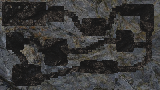
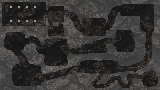
display light as entities

diff --git a/examples/demo/level.rs b/examples/demo/level.rs
@@ -1,34 +1,46 @@
 use doryen_fov::{FovAlgorithm, FovRestrictive, MapData};
-use doryen_rs::{color_blend, color_mul, color_scale, Color, DoryenApi, Image};
+use doryen_rs::{color_blend, Color, DoryenApi, Image};
 
-use crate::light::Light;
+use crate::entity::Entity;
+use crate::light::{Light, LIGHT_COEF};
 
 const START_COLOR: Color = (255, 0, 0, 255);
 const LIGHT_COLOR: Color = (255, 255, 0, 255);
 const LIGHT_RADIUS: f32 = 15.0;
 const PLAYER_LIGHT_RADIUS: f32 = 8.0;
 const PLAYER_LIGHT_COLOR: Color = (150, 150, 150, 255);
-const LIGHT_COEF: f32 = 1.5;
 const WALL_COLOR: Color = (255, 255, 255, 255);
 const GOBLIN_COLOR: Color = (0, 255, 0, 255);
 const VISITED_BLEND_COLOR: Color = (10, 10, 40, 255);
 const VISITED_BLEND_COEF: f32 = 0.8;
 
 pub struct Level {
+    /// a picture containing color coded walls, player start pos and entities. subcell resolution (2x2 pixel for each console cell)
     level_img: Image,
+    /// the level's ground texture. subcell resolution
     ground: Image,
+    /// whether the level_img has been loaded
     loaded: bool,
+    /// computed light in the level. subcell resolution
     lightmap: Image,
+    /// the level size in console cells
     size: (i32, i32),
+    /// the player start position in console cells
     start: (i32, i32),
+    /// where the player can walk (one bool for each console cell)
     walls: Vec<bool>,
+    /// what part of the level have been visited (subcell resolution)
     visited_2x: Vec<bool>,
+    /// utility to compute field of view
     fov: FovRestrictive,
+    /// what part of the level are in the player's field of view (subcell resolution)
     map: MapData,
+    /// the final background image (subcell resolution)
     render_output: Image,
+    /// dynamic lights in the level
     lights: Vec<Light>,
+    /// some dim light following the player to keep him from being in total darkness
     player_light: Light,
-    goblins: Vec<(i32, i32)>,
 }
 
 impl Level {
@@ -46,26 +58,21 @@ impl Level {
             fov: FovRestrictive::new(),
             map: MapData::new(1, 1),
             lights: Vec::new(),
-            goblins: Vec::new(),
             player_light: Light::new((0, 0), PLAYER_LIGHT_RADIUS, PLAYER_LIGHT_COLOR),
         }
     }
-    pub fn try_load(&mut self) -> bool {
-        if !self.loaded {
-            if self.level_img.try_load() {
-                self.compute_walls_2x_and_start_pos();
-                self.compute_walls();
-                self.lightmap = Image::new_empty(self.size.0 as u32 * 2, self.size.1 as u32 * 2);
-                self.render_output =
-                    Image::new_empty(self.size.0 as u32 * 2, self.size.1 as u32 * 2);
-                self.loaded = true;
-                // free memory
-                self.level_img = Image::new_empty(1, 1);
-            } else {
-                return false;
-            }
+    pub fn try_load(&mut self) -> Option<Vec<Entity>> {
+        if !self.loaded && self.level_img.try_load() {
+            let entities = self.compute_walls_2x_and_start_pos();
+            self.compute_walls();
+            self.lightmap = Image::new_empty(self.size.0 as u32 * 2, self.size.1 as u32 * 2);
+            self.render_output = Image::new_empty(self.size.0 as u32 * 2, self.size.1 as u32 * 2);
+            self.loaded = true;
+            // free memory
+            self.level_img = Image::new_empty(1, 1);
+            return Some(entities);
         }
-        true
+        None
     }
     pub fn start_pos(&self) -> (i32, i32) {
         self.start
@@ -81,9 +88,6 @@ impl Level {
             light.update();
         }
     }
-    fn penumbra(color: Color, level: usize) -> bool {
-        (color.0 as usize + color.1 as usize + color.2 as usize) < level
-    }
     pub fn render(&mut self, api: &mut dyn DoryenApi, player_pos: (i32, i32)) {
         if self.ground.try_load() {
             self.compute_lightmap(player_pos);
@@ -94,7 +98,7 @@ impl Level {
                     if self.map.is_in_fov(x, y) {
                         let ground_col = self.ground.pixel(x as u32, y as u32).unwrap();
                         let light_col = self.lightmap.pixel(x as u32, y as u32).unwrap();
-                        let penumbra = Level::penumbra(light_col, 50);
+                        let penumbra = Light::is_penumbra(light_col, 50);
                         let mut r =
                             f32::from(ground_col.0) * f32::from(light_col.0) * LIGHT_COEF / 255.0;
                         let mut g =
@@ -124,18 +128,10 @@ impl Level {
             }
             self.render_output
                 .blit_2x(&mut con, 0, 0, 0, 0, None, None, None);
-            self.render_goblins(api);
         }
     }
-    fn render_goblins(&self, api: &mut dyn DoryenApi) {
-        for goblin in self.goblins.iter() {
-            if self
-                .map
-                .is_in_fov(goblin.0 as usize * 2, goblin.1 as usize * 2)
-            {
-                self.render_creature(api, 'g' as u16, *goblin, GOBLIN_COLOR);
-            }
-        }
+    pub fn is_in_fov(&self, pos: (i32, i32)) -> bool {
+        self.map.is_in_fov(pos.0 as usize * 2, pos.1 as usize * 2)
     }
     pub fn compute_fov(&mut self, (x, y): (i32, i32), radius: usize) {
         self.map.clear_fov();
@@ -144,16 +140,6 @@ impl Level {
     }
     fn add_light(&mut self, pos: (i32, i32)) {
         self.lights.push(Light::new(pos, LIGHT_RADIUS, LIGHT_COLOR));
-    }
-    fn render_creature(&self, api: &mut dyn DoryenApi, c: u16, (x, y): (i32, i32), color: Color) {
-        let light = self.lightmap.pixel(x as u32 * 2, y as u32 * 2).unwrap();
-        let penumbra = Level::penumbra(light, 130);
-        let mut color = color_mul(color, light);
-        if penumbra {
-            color = color_scale(color, LIGHT_COEF);
-        }
-        api.con().ascii(x, y, if penumbra { '?' as u16 } else { c });
-        api.con().fore(x, y, color);
     }
     fn compute_lightmap(&mut self, (px, py): (i32, i32)) {
         // TODO check if filling with black pixels is faster
@@ -166,24 +152,35 @@ impl Level {
             light.render(&mut self.map, &mut fov, &mut self.lightmap, true);
         }
     }
-    fn compute_walls_2x_and_start_pos(&mut self) {
-        let size = self.level_img.try_get_size().unwrap();
-        self.map = MapData::new(size.0 as usize, size.1 as usize);
-        for y in 0..size.1 {
-            for x in 0..size.0 {
+    fn compute_walls_2x_and_start_pos(&mut self) -> Vec<Entity> {
+        let mut entities = Vec::new();
+        let image_size = self.level_img.try_get_size().unwrap();
+        self.size = (image_size.0 as i32 / 2, image_size.1 as i32 / 2);
+        self.walls = vec![false; (self.size.0 * self.size.1) as usize];
+        self.map = MapData::new(image_size.0 as usize, image_size.1 as usize);
+        for y in 0..image_size.1 {
+            for x in 0..image_size.0 {
                 let p = self.level_img.pixel(x, y).unwrap();
                 self.map
                     .set_transparent(x as usize, y as usize, p != WALL_COLOR);
                 self.visited_2x.push(false);
+                let pos_1x = (x as i32 / 2, y as i32 / 2);
                 match p {
-                    START_COLOR => self.start = (x as i32 / 2, y as i32 / 2),
-                    LIGHT_COLOR => self.add_light((x as i32, y as i32)),
-                    GOBLIN_COLOR => self.goblins.push((x as i32 / 2, y as i32 / 2)),
+                    START_COLOR => self.start = pos_1x,
+                    LIGHT_COLOR => {
+                        self.add_light((x as i32, y as i32));
+                        entities.push(Entity::new_light(pos_1x));
+                    }
+                    GOBLIN_COLOR => {
+                        let off = self.offset(pos_1x);
+                        self.walls[off] = true;
+                        entities.push(Entity::new_goblin(pos_1x));
+                    }
                     _ => (),
                 }
             }
         }
-        self.size = (size.0 as i32 / 2, size.1 as i32 / 2);
+        entities
     }
     fn compute_walls(&mut self) {
         for y in 0..self.size.1 {
@@ -203,12 +200,11 @@ impl Level {
                 if self.map.is_transparent(x2 + 1, y2 + 1) {
                     count += 1;
                 }
-                self.walls.push(count < 2);
+                if count < 2 {
+                    let off = self.offset((x, y));
+                    self.walls[off] = true;
+                }
             }
-        }
-        for goblin in self.goblins.iter() {
-            let off = self.offset(*goblin);
-            self.walls[off] = true;
         }
     }
     fn offset(&self, (x, y): (i32, i32)) -> usize {

diff --git a/examples/demo/main.rs b/examples/demo/main.rs
@@ -1,6 +1,7 @@
 extern crate doryen_fov;
 extern crate doryen_rs;
 
+mod entity;
 mod level;
 mod light;
 mod noise;
@@ -8,6 +9,7 @@ mod player;
 
 use doryen_rs::{App, AppOptions, Color, DoryenApi, Engine, TextAlign, UpdateEvent};
 
+use entity::Entity;
 use level::Level;
 use player::Player;
 
@@ -20,6 +22,7 @@ const WHITE: Color = (255, 255, 255, 255);
 
 struct DoryenDemo {
     player: Player,
+    entities: Vec<Entity>,
     mouse_pos: (f32, f32),
     level: Level,
     loaded: bool,
@@ -32,10 +35,13 @@ impl Engine for DoryenDemo {
         api.con().register_color("blue", (192, 192, 255, 255));
     }
     fn update(&mut self, api: &mut dyn DoryenApi) -> Option<UpdateEvent> {
-        if !self.loaded && self.level.try_load() {
-            self.loaded = true;
-            self.player.move_to(self.level.start_pos());
-            self.level.compute_fov(self.player.pos(), PLAYER_FOV_RADIUS);
+        if !self.loaded {
+            if let Some(entities) = self.level.try_load() {
+                self.loaded = true;
+                self.player.move_to(self.level.start_pos());
+                self.level.compute_fov(self.player.pos(), PLAYER_FOV_RADIUS);
+                self.entities = entities;
+            }
         }
         if self.loaded {
             let mut coef = 1.0 / std::f32::consts::SQRT_2;
@@ -59,15 +65,13 @@ impl Engine for DoryenDemo {
     fn render(&mut self, api: &mut dyn DoryenApi) {
         if self.loaded {
             self.clear_con(api);
-            let player_pos = self.player.pos();
-            self.level.render(api, player_pos);
-            let player_light = self.level.light_at(player_pos);
-            self.player.render(api, player_light);
+            self.level.render(api, self.player.pos());
+            self.render_entities(api);
             let fps = api.fps();
             api.con().print_color(
                 (CONSOLE_WIDTH / 2) as i32,
                 (CONSOLE_HEIGHT - 2) as i32,
-                &format!("#[white]Move with #[red]arrows or WSAD\n#[white]Fire with #[red]mouse   {:4} fps",fps),
+                &format!("#[white]Move with #[red]arrows or WSAD #[white]Fire with #[red]mouse   {:4} fps",fps),
                 TextAlign::Center,
                 None,
             );
@@ -75,7 +79,7 @@ impl Engine for DoryenDemo {
             api.con().print_color(
                 (CONSOLE_WIDTH / 2) as i32,
                 (CONSOLE_HEIGHT / 2) as i32,
-                &format!("#[white]Loading#[red]..."),
+                "#[white]Loading#[red]...",
                 TextAlign::Center,
                 None,
             );
@@ -89,8 +93,19 @@ impl DoryenDemo {
             player: Player::new(PLAYER_SPEED),
             mouse_pos: (0.0, 0.0),
             level: Level::new("demo/level"),
+            entities: Vec::new(),
             loaded: false,
         }
+    }
+    fn render_entities(&self, api: &mut dyn DoryenApi) {
+        for entity in self.entities.iter() {
+            if self.level.is_in_fov(entity.pos) {
+                entity.render(api, &self.level);
+            }
+        }
+        let player_pos = self.player.pos();
+        let player_light = self.level.light_at(player_pos);
+        self.player.render(api, player_light);
     }
 }
 
@@ -104,6 +119,7 @@ impl DoryenDemo {
 fn main() {
     let mut app = App::new(AppOptions {
         window_title: "doryen demo".to_owned(),
+        vsync: false,
         ..Default::default()
     });
     app.set_engine(Box::new(DoryenDemo::new()));

diff --git a/examples/demo/entity.rs b/examples/demo/entity.rs
@@ -1,0 +1,54 @@
+use doryen_rs::{color_mul, color_scale, Color, DoryenApi};
+
+use crate::level::Level;
+use crate::light::{Light, LIGHT_COEF};
+
+pub struct Entity {
+    /// ascii character for this entity
+    ch: u16,
+    /// position on the map (cell coordinate)
+    pub pos: (i32, i32),
+    pub name: String,
+    color: Color,
+    light: bool,
+}
+
+impl Entity {
+    pub fn new_goblin(pos: (i32, i32)) -> Self {
+        Self {
+            ch: 'g' as u16,
+            pos,
+            name: "a petrified goblin".to_owned(),
+            color: (80, 150, 70, 255),
+            light: false,
+        }
+    }
+    pub fn new_light(pos: (i32, i32)) -> Self {
+        Self {
+            ch: 15,
+            pos,
+            name: "a flickering torch".to_owned(),
+            color: (150, 174, 27, 255),
+            light: true,
+        }
+    }
+    pub fn render(&self, api: &mut dyn DoryenApi, level: &Level) {
+        let (color, penumbra) = if self.light {
+            (self.color, false)
+        } else {
+            let light = level.light_at(self.pos);
+            let penumbra = Light::is_penumbra(light, 100);
+            let mut color = color_mul(self.color, light);
+            if penumbra {
+                color = color_scale(color, LIGHT_COEF);
+            }
+            (color, penumbra)
+        };
+        api.con().ascii(
+            self.pos.0,
+            self.pos.1,
+            if penumbra { '?' as u16 } else { self.ch },
+        );
+        api.con().fore(self.pos.0, self.pos.1, color);
+    }
+}

diff --git a/examples/demo/light.rs b/examples/demo/light.rs
@@ -4,6 +4,8 @@ use doryen_rs::{color_add, color_blend, color_scale, Color, Image};
 use crate::noise::simplex;
 use crate::BLACK;
 
+pub const LIGHT_COEF: f32 = 1.5;
+
 const TIME_SCALE: f32 = 0.05;
 const LIGHT_INTENSITY: f32 = 1.5;
 const LIGHT_FLICKER_MOVE: f32 = 2.0;
@@ -28,6 +30,9 @@ impl Light {
             // "random" t initial value so that all lights don't flicker in sync
             t: (x * y) as f32,
         }
+    }
+    pub fn is_penumbra(color: Color, level: usize) -> bool {
+        (color.0 as usize + color.1 as usize + color.2 as usize) < level
     }
     pub fn pos_mut(&mut self) -> &mut (f32, f32) {
         &mut self.pos

diff --git a/README.md b/README.md
@@ -69,7 +69,6 @@ cargo run --example basic
 
 * web compilation
 ```
-rustup target install wasm32-unknown-unknown
 cargo install --force cargo-web
 cargo web start --example basic
 ```
